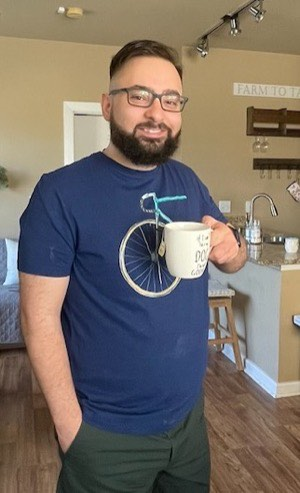
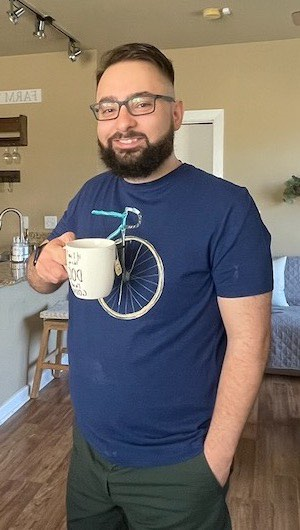
photos: mirror masthead portrait to face the headline
Subject now leans toward the copy instead of off-page; crop narrowed so
the background sign doesn't read reversed at render size.

diff --git a/index.html b/index.html
@@ -149,7 +149,7 @@ a{-webkit-tap-highlight-color:rgba(166,58,43,.15)}
   </div>
   <div class="stripe seam"></div>
   <figure class="facewrap">
-    <img src="assets/sam-casual.jpg" width="300" height="493" alt="Sam Ismail, coffee in hand">
+    <img src="assets/sam-casual.jpg" width="300" height="530" alt="Sam Ismail, coffee in hand">
     <figcaption>Sam Ismail &mdash; I stand behind every call.</figcaption>
   </figure>
   <h1>All of your after&#8209;hours calls answered.<span class="h1b">Jobs booked, not messages taken.</span></h1>